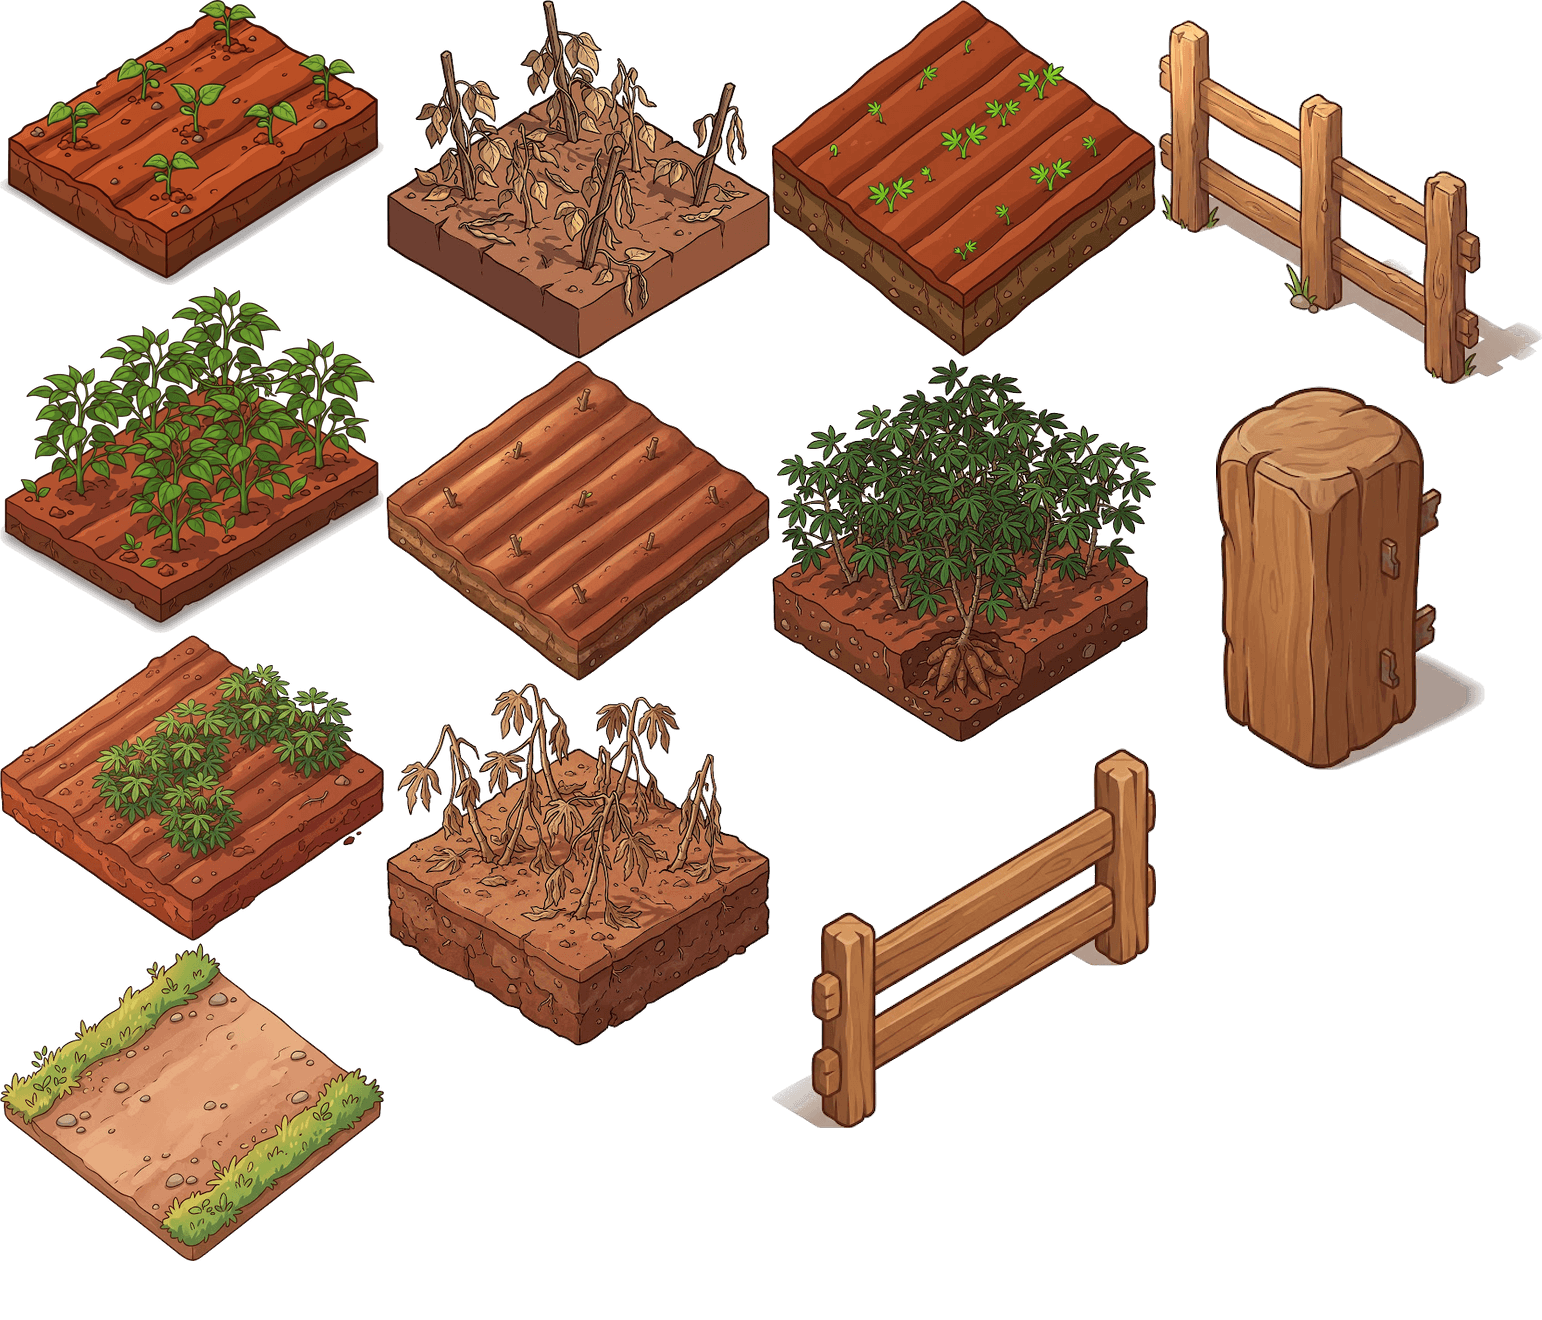
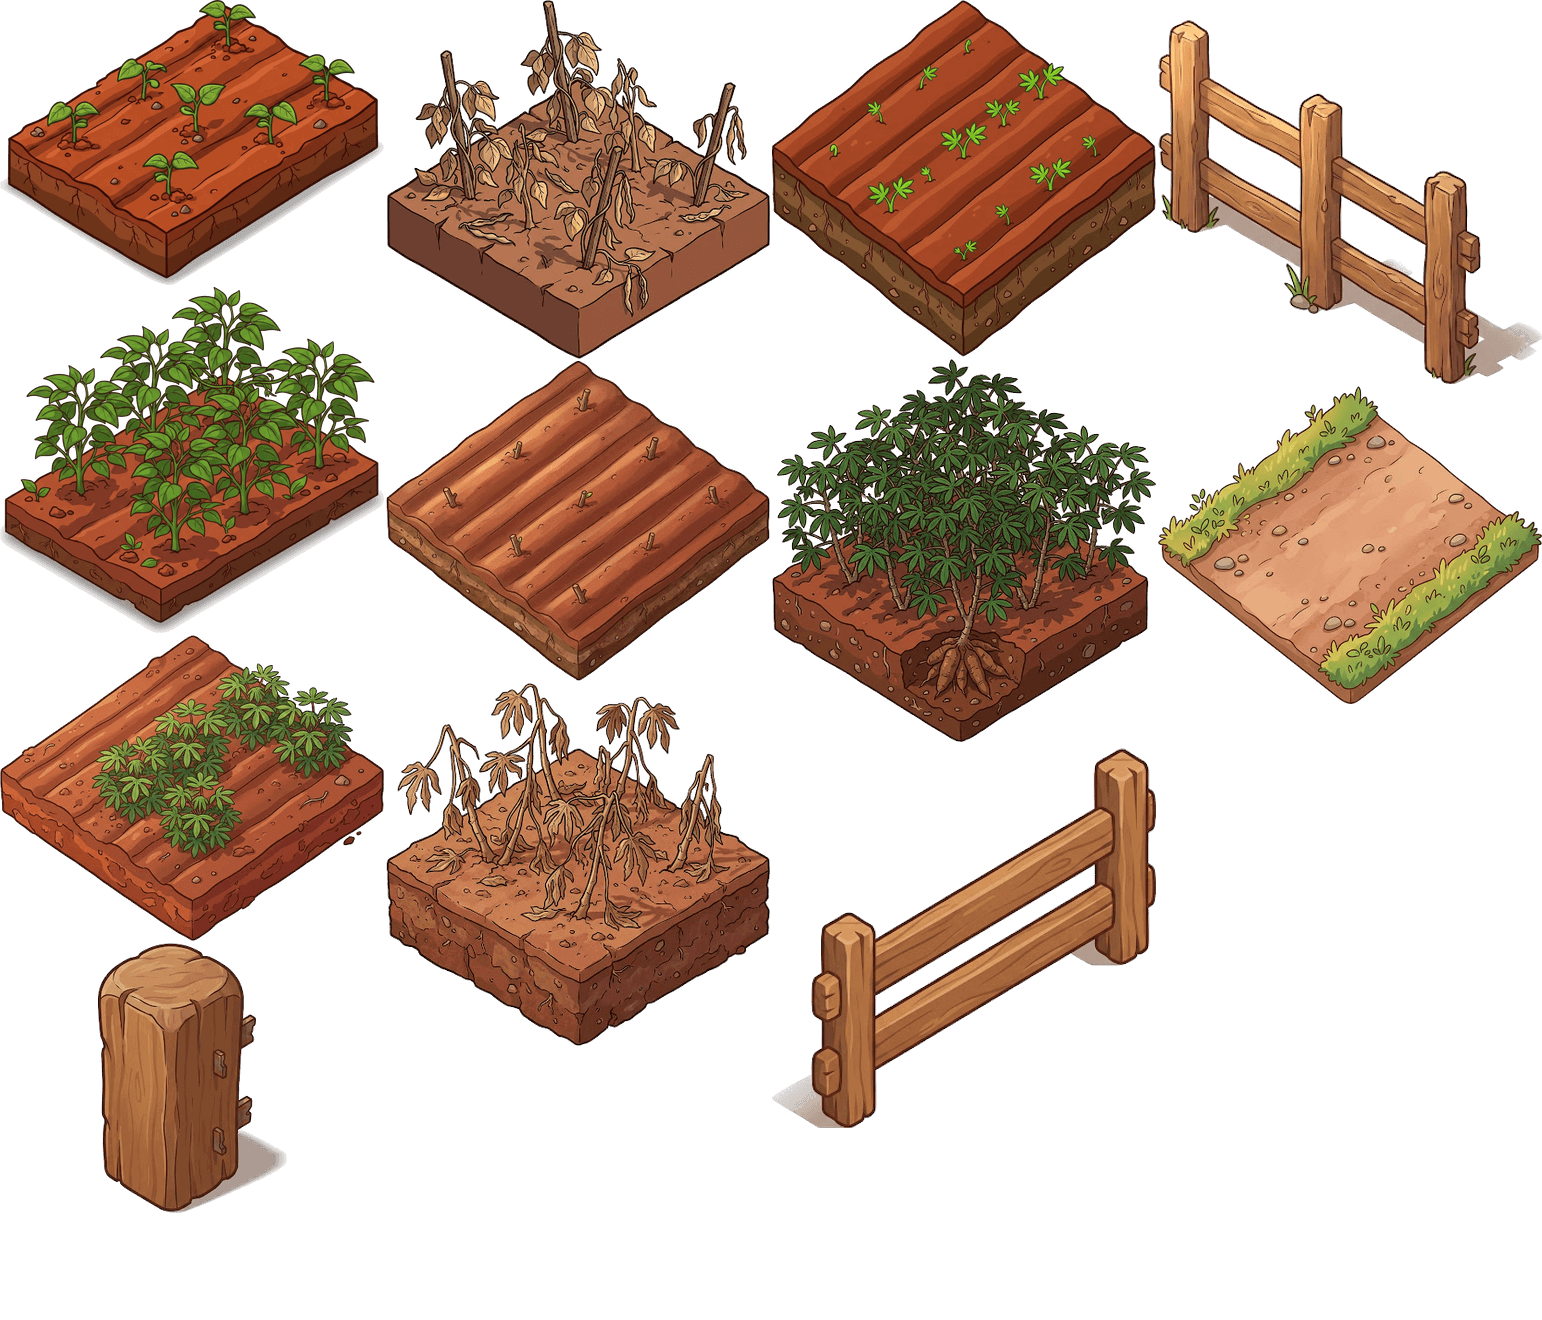
Girar objetos (cerca com 3 posições) sem alterar dados salvos; poste proporcional; Pages em 2 jobs
Claude-Session: https://claude.ai/code/session_01XN5yJUu1Ayq8GTviXXAyeh

Changed region(s): [[0.7471, 0.2795, 1.0, 0.5902], [0.0, 0.7144, 0.249, 0.9629]]

diff --git a/src/ui/Fazenda.tsx b/src/ui/Fazenda.tsx
@@ -6,7 +6,7 @@ import { nivelDeXp } from '../domain/niveis';
 import { calcularOfensiva } from '../domain/ofensiva';
 import { proximaMateria } from '../domain/ciclo';
 import { ECONOMIA, cultura } from '../domain/economia';
-import { colher, comprarCanteiro, comprarConstrucao, estagioCultura, moverItem, plantar } from '../domain/fazenda';
+import { colher, comprarCanteiro, comprarConstrucao, estagioCultura, girarItem, moverItem, plantar, proximaRotacao, rotacoesDe, tamanhoItem } from '../domain/fazenda';
 import { estaPausada, segundosAteProximoPomodoro, segundosLiquidos, pomodorosCompletos } from '../domain/timer';
 import { formatarRelogio } from '../domain/datas';
 import type { AppState, ItemFazenda, ModoTimer, ResumoSessao } from '../domain/tipos';
@@ -16,7 +16,7 @@ import {
 import { Folha, Icone, Moedas, perguntar } from './comum';
 
 export type PedidoColocacao =
-  | { tipo: 'construcao'; ref: string; w: number; h: number; rotulo: string }
+  | { tipo: 'construcao'; ref: string; w: number; h: number; rotulo: string; rot?: number }
   | { tipo: 'canteiro'; w: 1; h: 1; rotulo: string }
   | { tipo: 'mover'; id: string; w: number; h: number; rotulo: string };
 
@@ -40,7 +40,7 @@ export function TelaFazenda({ s, avisar, colocacao, setColocacao, irPara }: Prop
     if (colocacao) {
       const r = colocacao.tipo === 'canteiro' ? comprarCanteiro(s, x, y)
         : colocacao.tipo === 'mover' ? moverItem(s, colocacao.id, x, y)
-        : comprarConstrucao(s, colocacao.ref, x, y);
+        : comprarConstrucao(s, colocacao.ref, x, y, colocacao.rot ?? 0);
       if (!r.ok) return avisar(r.erro);
       atualizar(() => r.state);
       avisar(colocacao.tipo === 'mover' ? 'Movido!' : `${colocacao.rotulo} colocado! 🎉`);
@@ -61,10 +61,16 @@ export function TelaFazenda({ s, avisar, colocacao, setColocacao, irPara }: Prop
     setItemSel(item);
   };
 
-  const colocacaoCena: Colocacao | null = useMemo(
-    () => (colocacao ? { w: colocacao.w, h: colocacao.h, rotulo: colocacao.rotulo } : null),
-    [colocacao],
-  );
+  const colocacaoCena: Colocacao | null = useMemo(() => {
+    if (!colocacao) return null;
+    const [w, h] = colocacao.tipo === 'construcao' ? tamanhoItem({ tipo: 'construcao', ref: colocacao.ref, rot: colocacao.rot }) : [colocacao.w, colocacao.h];
+    return { w, h, rotulo: colocacao.rotulo };
+  }, [colocacao]);
+
+  const girarColocacao = () => {
+    if (colocacao?.tipo !== 'construcao') return;
+    setColocacao({ ...colocacao, rot: proximaRotacao(colocacao.ref, colocacao.rot ?? 0) });
+  };
 
   return (
     <div className="tela-fazenda">
@@ -83,8 +89,12 @@ export function TelaFazenda({ s, avisar, colocacao, setColocacao, irPara }: Prop
 
       {colocacao ? (
         <div className="aviso-colocar">
-          <span style={{ flex: 1 }}>Toque no terreno para colocar: {colocacao.rotulo}</span>
-          <button className="btn" onClick={() => setColocacao(null)}>Concluir</button>
+          <span style={{ flex: 1 }}>
+            Toque no terreno para colocar: {colocacao.rotulo}
+            {colocacao.tipo === 'construcao' && rotacoesDe(colocacao.ref) > 1 && <small style={{ display: 'block', fontWeight: 500 }}>Posição {(colocacao.rot ?? 0) + 1} de {rotacoesDe(colocacao.ref)}</small>}
+          </span>
+          {colocacao.tipo === 'construcao' && <button className="btn" style={{ flex: 'none' }} onClick={girarColocacao}>↻ Girar</button>}
+          <button className="btn" style={{ flex: 'none' }} onClick={() => setColocacao(null)}>Concluir</button>
         </div>
       ) : !s.sessaoAtiva ? (
         <PainelIniciar s={s} irPara={irPara} />
@@ -122,12 +132,20 @@ export function TelaFazenda({ s, avisar, colocacao, setColocacao, irPara }: Prop
       )}
 
       {itemSel && (
-        <Folha titulo={itemSel.ref === 'casa' ? 'Casa de fazenda' : 'Item'} aoFechar={() => setItemSel(null)}>
-          <button className="btn grande" onClick={() => {
-            const w = itemSel.tipo === 'construcao' ? (ECONOMIA.construcoes.find((c) => c.id === itemSel.ref)?.tamanho ?? [1, 1]) : [1, 1];
-            setColocacao({ tipo: 'mover', id: itemSel.id, w: w[0], h: w[1], rotulo: 'novo lugar' });
-            setItemSel(null);
-          }}>Mover</button>
+        <Folha titulo={ECONOMIA.construcoes.find((c) => c.id === itemSel.ref)?.nome ?? ECONOMIA.animais.find((a) => a.id === itemSel.ref)?.nome ?? 'Item'} aoFechar={() => setItemSel(null)}>
+          <div className="linha">
+            <button className="btn grande" onClick={() => {
+              const r = girarItem(s, itemSel.id);
+              if (!r.ok) return avisar(r.erro);
+              atualizar(() => r.state);
+              setItemSel(r.state.fazenda.itens.find((i) => i.id === itemSel.id) ?? null);
+            }}>↻ Girar</button>
+            <button className="btn grande" onClick={() => {
+              const [w, h] = tamanhoItem(itemSel);
+              setColocacao({ tipo: 'mover', id: itemSel.id, w, h, rotulo: 'novo lugar' });
+              setItemSel(null);
+            }}>Mover</button>
+          </div>
         </Folha>
       )}
     </div>

diff --git a/src/domain/fazenda.ts b/src/domain/fazenda.ts
@@ -13,9 +13,32 @@ export function tamanhoLote(state: AppState): number {
   return lote(state.fazenda.lote)?.tamanho ?? 8;
 }
 
-export function tamanhoItem(item: Pick<ItemFazenda, 'tipo' | 'ref'>): [number, number] {
-  if (item.tipo === 'construcao') return construcao(item.ref)?.tamanho ?? [1, 1];
+export function tamanhoItem(item: Pick<ItemFazenda, 'tipo' | 'ref' | 'rot'>): [number, number] {
+  if (item.tipo === 'construcao') {
+    const [w, h] = construcao(item.ref)?.tamanho ?? [1, 1];
+    return (item.rot ?? 0) % 2 === 1 ? [h, w] : [w, h];
+  }
   return [1, 1];
+}
+
+/** Quantas rotações um item tem. A cerca tem 3 (duas direções + poste); o resto, 2 (normal e espelhado). */
+export function rotacoesDe(ref: string): number {
+  return ref === 'cerca' ? 3 : 2;
+}
+
+export function proximaRotacao(ref: string, rot = 0): number {
+  return (rot + 1) % rotacoesDe(ref);
+}
+
+export function girarItem(state: AppState, id: string): Resultado {
+  const b = bloqueadoDuranteSessao(state); if (b) return b;
+  const it = state.fazenda.itens.find((i) => i.id === id);
+  if (!it || it.tipo === 'canteiro') return falha('Esse item não gira.');
+  const rot = proximaRotacao(it.ref, it.rot ?? 0);
+  const [w, h] = tamanhoItem({ ...it, rot });
+  if (it.tipo === 'construcao' && !areaLivre(state, it.x, it.y, w, h, id)) return falha('Não há espaço para girar aqui.');
+  const itens = state.fazenda.itens.map((i) => (i.id === id ? { ...i, rot } : i));
+  return { ok: true, state: { ...state, fazenda: { ...state.fazenda, itens } } };
 }
 
 function ocupa(item: ItemFazenda, x: number, y: number): boolean {
@@ -168,16 +191,17 @@ export function murcharCulturas(state: AppState): { state: AppState; murchas: nu
 
 // ---------- Loja: construções e animais ----------
 
-export function comprarConstrucao(state: AppState, ref: string, x: number, y: number): Resultado {
+export function comprarConstrucao(state: AppState, ref: string, x: number, y: number, rot = 0): Resultado {
   const b = bloqueadoDuranteSessao(state); if (b) return b;
   const c = construcao(ref);
   if (!c) return falha('Item desconhecido.');
   if (nivelAtual(state) < c.nivel) return falha(`${c.nome} libera no nível ${c.nivel}.`);
   if (c.unica && contar(state, 'construcao', ref) > 0) return falha(`Você já tem ${c.nome.toLowerCase()}.`);
-  if (!areaLivre(state, x, y, c.tamanho[0], c.tamanho[1])) return falha('Não cabe aí.');
+  const [cw, ch] = tamanhoItem({ tipo: 'construcao', ref, rot });
+  if (!areaLivre(state, x, y, cw, ch)) return falha('Não cabe aí.');
   const pago = cobrar(state, c.preco, c.nome);
   if (!pago) return falha(`Faltam moedas (${c.preco}).`);
-  const item: ItemFazenda = { id: novoId(), tipo: 'construcao', ref, x, y, nivel: 1 };
+  const item: ItemFazenda = { id: novoId(), tipo: 'construcao', ref, x, y, nivel: 1, ...(rot ? { rot } : {}) };
   return { ok: true, state: { ...pago, fazenda: { ...pago.fazenda, itens: [...pago.fazenda.itens, item] } } };
 }
 

diff --git a/src/domain/dominio.test.ts b/src/domain/dominio.test.ts
@@ -169,3 +169,46 @@ describe('ciclo e backup', () => {
     expect(lerBackup('{"x":1}').ok).toBe(false);
   });
 });
+
+import { girarItem, tamanhoItem as tam } from './fazenda';
+import { migrar } from './estado';
+
+describe('girar objetos (compatível com dados antigos)', () => {
+  it('estado salvo na versão anterior (sem "rot") carrega intacto', () => {
+    let s = comMateria();
+    const c = s.fazenda.itens.find((i) => i.tipo === 'canteiro')!;
+    const p = plantar(s, c.id, 'milho'); if (!p.ok) throw new Error();
+    s = registrarSessao(p.state, { materiaId: 'pt', inicio: H(8), duracaoMin: 20, origem: 'cronometro' }, H(9)).state;
+    s = { ...s, fazenda: { ...s.fazenda, itens: [...s.fazenda.itens, { id: 'cerca-velha', tipo: 'construcao', ref: 'cerca', x: 7, y: 7 }] } };
+    const json = JSON.stringify(s); // exatamente o que já está no aparelho
+    const lido = migrar(JSON.parse(json));
+    expect(lido.sessoes).toEqual(s.sessoes);
+    expect(lido.jogador).toEqual(s.jogador);
+    expect(lido.fazenda).toEqual(s.fazenda);
+    expect(lido.fazenda.itens.find((i) => i.id === c.id)?.cultura?.minutos).toBe(20);
+  });
+  it('cerca gira entre 3 posições e o resto preserva', () => {
+    let s = comMateria();
+    s = { ...s, fazenda: { ...s.fazenda, itens: [...s.fazenda.itens, { id: 'f', tipo: 'construcao', ref: 'cerca', x: 7, y: 7 }] } };
+    const antes = s.sessoes.length;
+    for (const esperado of [1, 2, 0]) {
+      const r = girarItem(s, 'f'); if (!r.ok) throw new Error(r.erro);
+      s = r.state;
+      expect(s.fazenda.itens.find((i) => i.id === 'f')!.rot).toBe(esperado);
+    }
+    expect(s.sessoes.length).toBe(antes);
+  });
+  it('construção não quadrada troca largura e altura ao girar', () => {
+    expect(tam({ tipo: 'construcao', ref: 'casa', rot: 1 })).toEqual([2, 2]);
+    expect(tam({ tipo: 'construcao', ref: 'cerca', rot: 1 })).toEqual([1, 1]);
+  });
+  it('compra já girada e não gira durante a sessão', () => {
+    let s = { ...comMateria(), jogador: { xp: 0, moedas: 100, congeladores: 0 } };
+    const r = comprarConstrucao(s, 'cerca', 7, 0, 1); if (!r.ok) throw new Error(r.erro);
+    s = r.state;
+    const f = s.fazenda.itens.find((i) => i.ref === 'cerca')!;
+    expect(f.rot).toBe(1);
+    const emSessao = { ...s, sessaoAtiva: { inicio: H(8).toISOString(), pausas: [], modo: 'livre' as const, materiaId: 'pt', saidaAutorizada: false, penalidades: 0 } };
+    expect(girarItem(emSessao, f.id).ok).toBe(false);
+  });
+});

diff --git a/src/game/FarmScene.ts b/src/game/FarmScene.ts
@@ -144,7 +144,7 @@ export class FarmScene extends Phaser.Scene {
 
   private chaveVisual(it: ItemFazenda) {
     if (it.tipo === 'canteiro') return `c:${it.cultura?.id ?? '-'}:${estagioCultura(it) ?? '-'}:${it.x},${it.y}`;
-    return `${it.ref}:${it.nivel ?? 1}:${it.x},${it.y}`;
+    return `${it.ref}:${it.nivel ?? 1}:${it.x},${it.y}:r${it.rot ?? 0}`;
   }
 
   private desenharChao(s: AppState, n: number) {
@@ -189,15 +189,21 @@ export class FarmScene extends Phaser.Scene {
       img.setPosition(p.x, p.y + TILE_H / 2 + this.espessura);
       img.setDepth((it.x + it.y) * 10 + 1);
     } else if (it.tipo === 'construcao') {
-      const k = it.ref === 'casa' ? `bld_casa_lv${it.nivel ?? 1}` : it.ref === 'cerca' ? 'bld_cerca_a' : `bld_${it.ref}`;
-      const alt = it.ref === 'casa' ? ['bld_casa_lv1'] : [];
+      const rot = it.rot ?? 0;
+      const CERCAS = ['bld_cerca_a', 'bld_cerca_b', 'bld_cerca_poste'];
+      const k = it.ref === 'casa' ? `bld_casa_lv${it.nivel ?? 1}` : it.ref === 'cerca' ? CERCAS[rot % 3] : `bld_${it.ref}`;
+      const alt = it.ref === 'casa' ? ['bld_casa_lv1'] : it.ref === 'cerca' ? ['bld_cerca_a'] : [];
       img = this.imagem(k, alt, [TILE_W * w, TILE_W * Math.max(w, h)]);
+      // sem arte própria para a outra direção: espelha horizontalmente
+      if (it.ref !== 'cerca' && rot % 2 === 1) img.setFlipX(true);
+      if (it.ref === 'cerca' && rot === 1 && !this.temFrame('bld_cerca_b')) img.setFlipX(true);
       const centro = isoParaTela(it.x + (w - 1) / 2, it.y + (h - 1) / 2);
       const base = isoParaTela(it.x + w - 0.5, it.y + h - 0.5);
       img.setPosition(centro.x, base.y + this.espessura * 0.6);
       img.setDepth((it.x + w - 1 + it.y + h - 1) * 10 + 5);
     } else {
       img = this.imagem(`animal_${it.ref}_idle_01`, [], [192, 192]);
+      if ((it.rot ?? 0) % 2 === 1) img.setFlipX(true);
       const p = isoParaTela(it.x, it.y);
       img.setPosition(p.x, p.y + TILE_H * 0.2);
       img.setDepth((it.x + it.y) * 10 + 6);

diff --git a/src/domain/tipos.ts b/src/domain/tipos.ts
@@ -83,6 +83,8 @@ export interface ItemFazenda {
   y: number;
   cultura?: CulturaPlantada;
   nivel?: number;
+  /** Rotação (opcional; ausente = 0). Itens salvos antes desta versão continuam válidos. */
+  rot?: number;
 }
 
 export interface Fazenda {
